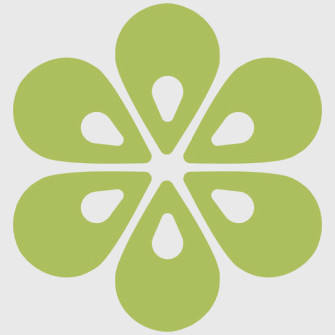
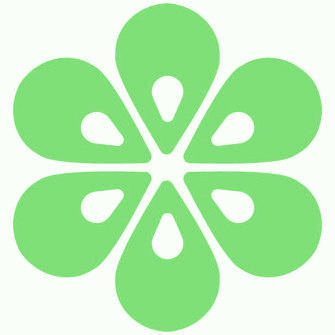
Updated app looks.

diff --git a/src/css/app.css b/src/css/app.css
@@ -165,17 +165,17 @@ input.numberInput{
 }
 
 form, body {
-    background: #FCFFD9 !important;
+    background: #F1FFE8 !important;
 }
 
 .ui-page {
-    background: #EFF2CD;
+    background: rgba(112, 208, 99, 0.15);
 }
 
 .ui-header-fixed, .ui-footer-fixed {
     min-height: 45px;
 
-    background-color: #D5CB5F !important;
+    background-color: #70D063 !important;
     -webkit-box-sizing: border-box;
     -moz-box-sizing: border-box;
     box-sizing: border-box;
@@ -222,9 +222,9 @@ form, body {
     right: 0;
 
     border-style: dashed;
-    border-color: #A0A286;
+    border-color: #90A286;
 
-    background-color: #E5E1B2;
+    background-color: #C7E5B2;
     background-size: 44px auto;
     background-repeat: no-repeat;
     background-position: center;
@@ -340,7 +340,7 @@ a.ui-btn > img {
 .ui-btn-icon-top:after,
 .ui-btn-icon-bottom:after,
 .ui-btn-icon-notext:after {
-    background-color: #828829;
+    background-color: #3A8829;
 }
 
 /* Species list record button */

diff --git a/src/scripts/views/_page.js b/src/scripts/views/_page.js
@@ -27,6 +27,7 @@ app.views = app.views || {};
 
       $(this.el).html(this.template());
       return this;
+
     },
 
     attributes: function () {
